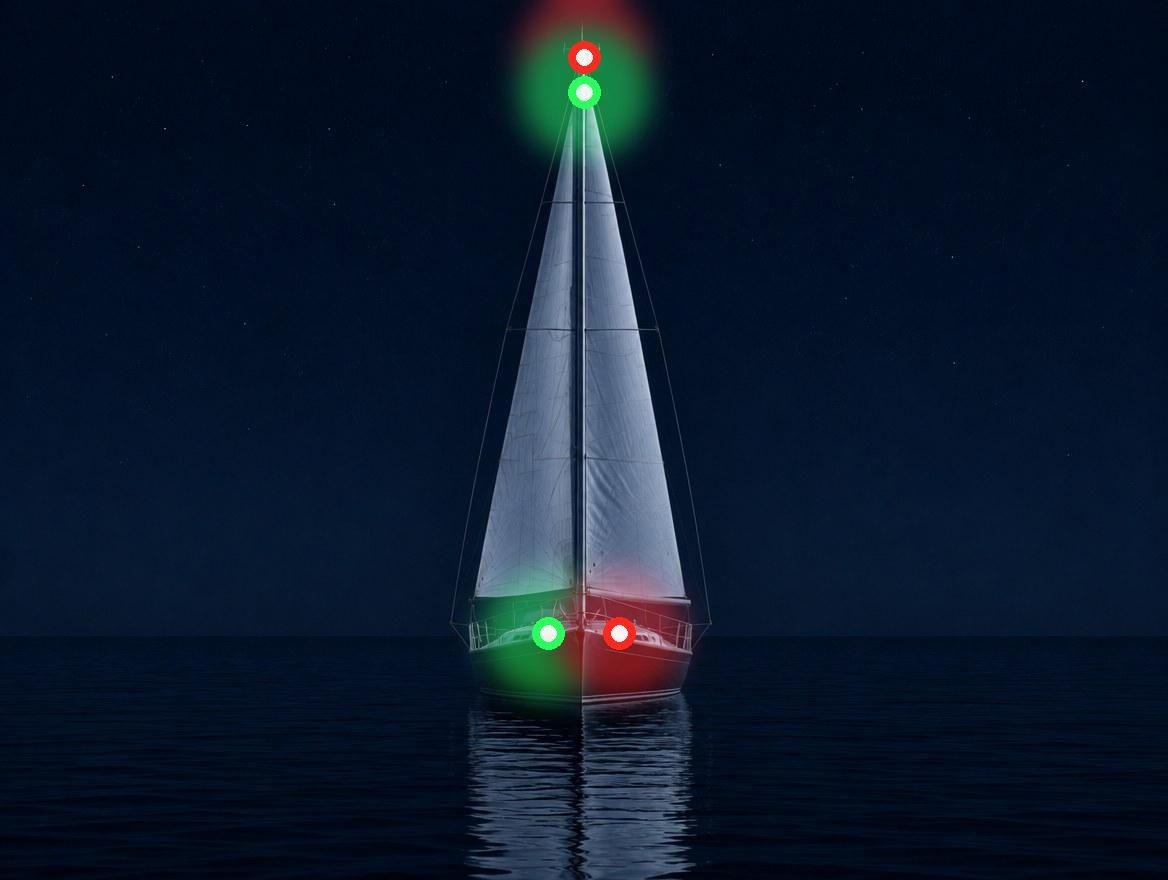
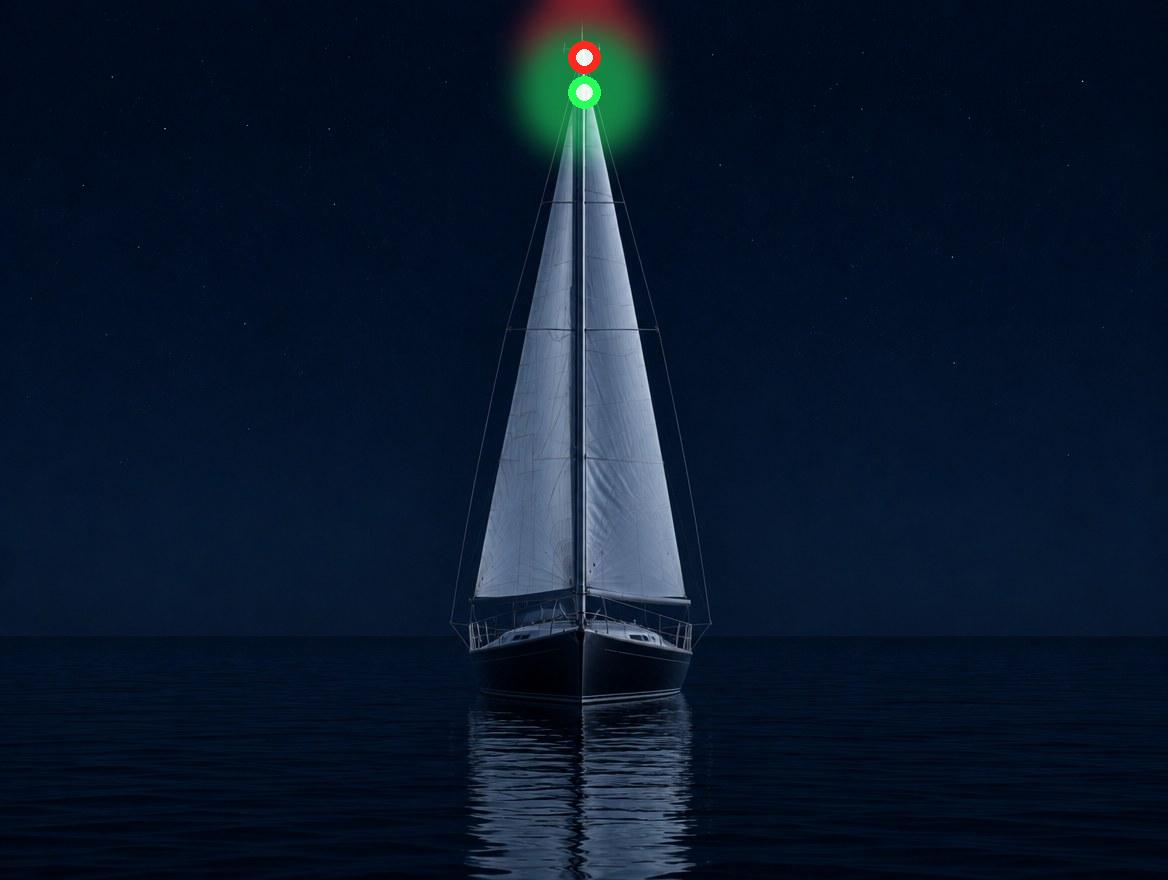
night vessels: sail_optional_bow shows masthead lights only (Alex)

Changed region(s): [[0.4007, 0.6136, 0.6164, 0.8284]]

diff --git a/media/vessels/night/compose_night.py b/media/vessels/night/compose_night.py
@@ -32,7 +32,7 @@ V = {
  "sail_port":  ("sail_port",  [(31.5, 72, R_)]),
  "sail_stern": ("sail_stern", [(49.5, 72, W_)]),
  "sail_optional_port": ("sail_port", [(48.8, 8.5, R_), (48.8, 12.5, G_), (31.5, 72, R_)]),
- "sail_optional_bow":  ("sail_bow",  [(50, 6.5, R_), (50, 10.5, G_), (47, 72, G_), (53, 72, R_)]),
+ "sail_optional_bow":  ("sail_bow",  [(50, 6.5, R_), (50, 10.5, G_)]),   # masthead only, no deck sidelights (Alex)
  # pilot (white over red)
  "pilot_bow":   ("pilot_bow",   [(50, 22, W_), (50, 27, R_), (33, 52, G_), (67, 52, R_)]),
  "pilot_port":  ("pilot_port",  [(56.5, 27, W_), (56.5, 31.5, R_), (41, 44, R_)]),
